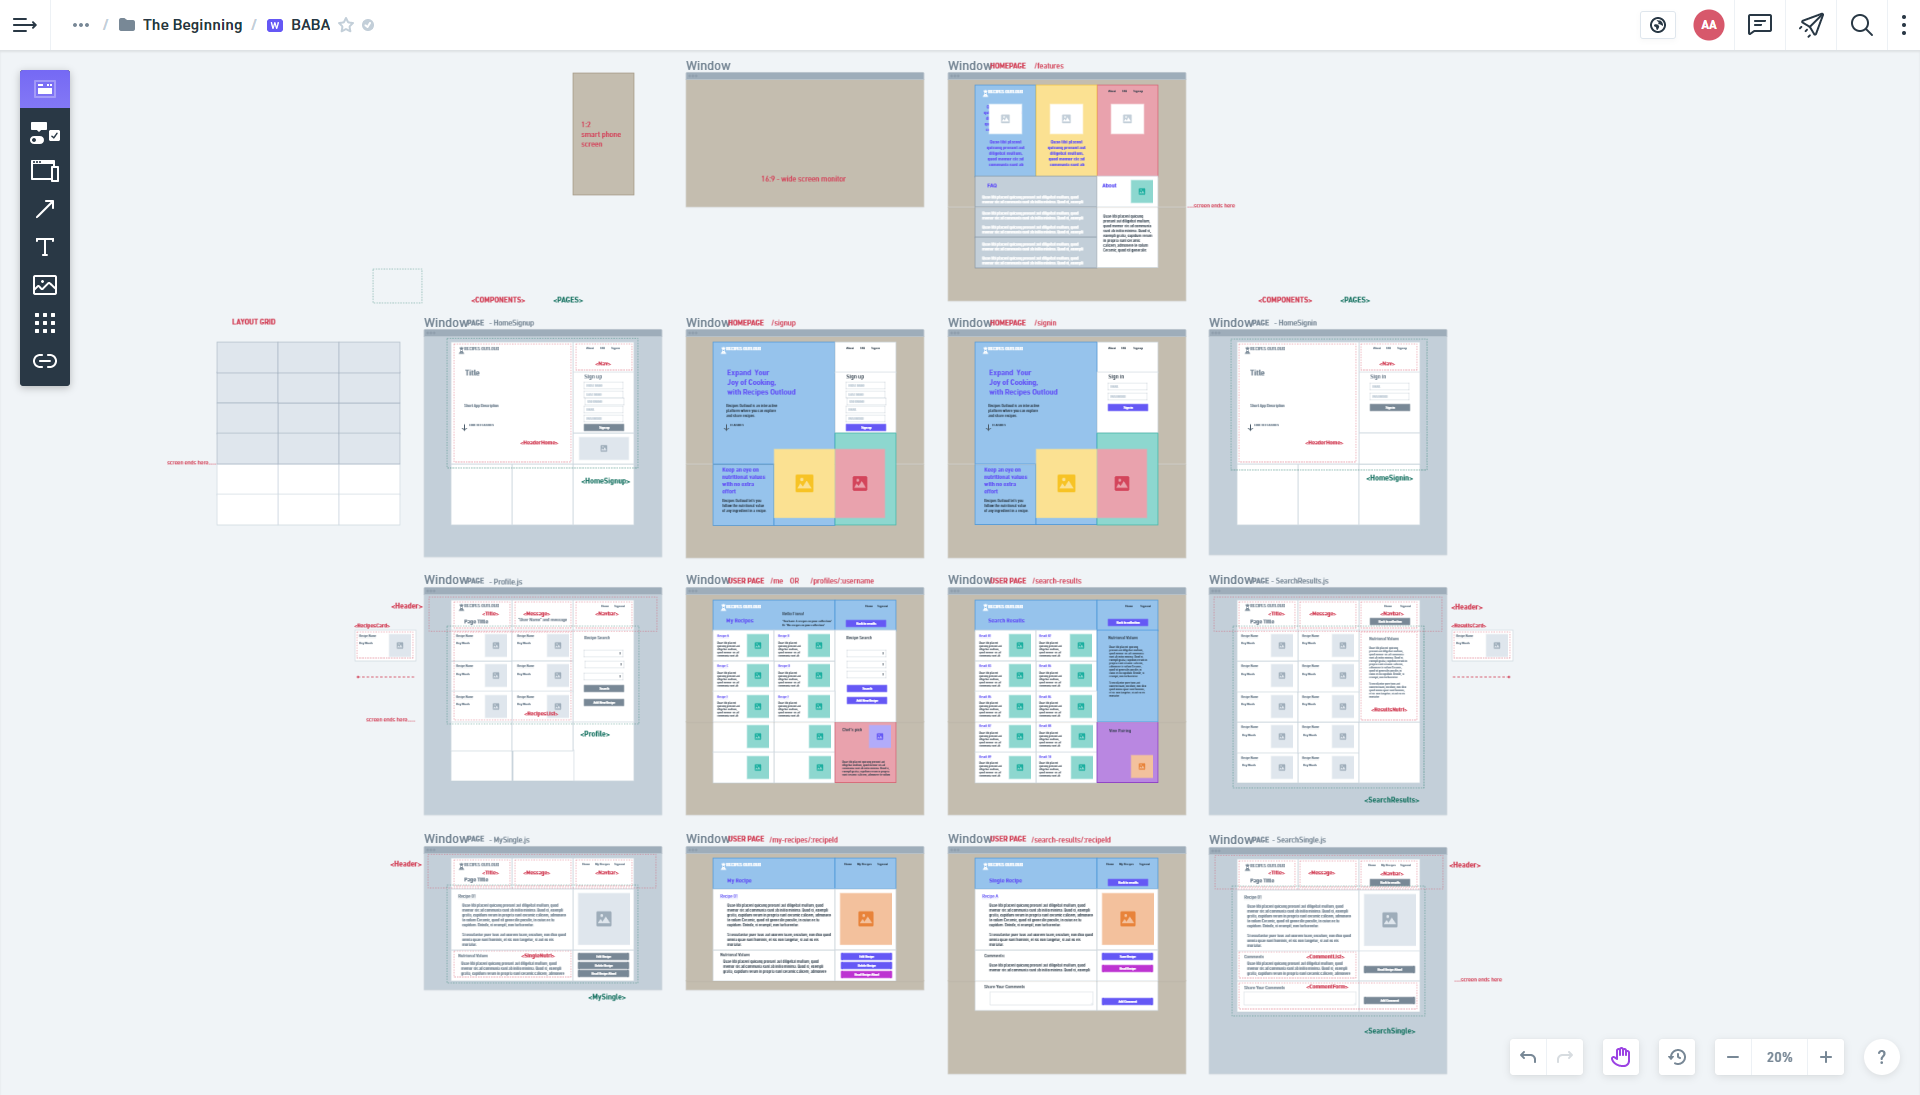
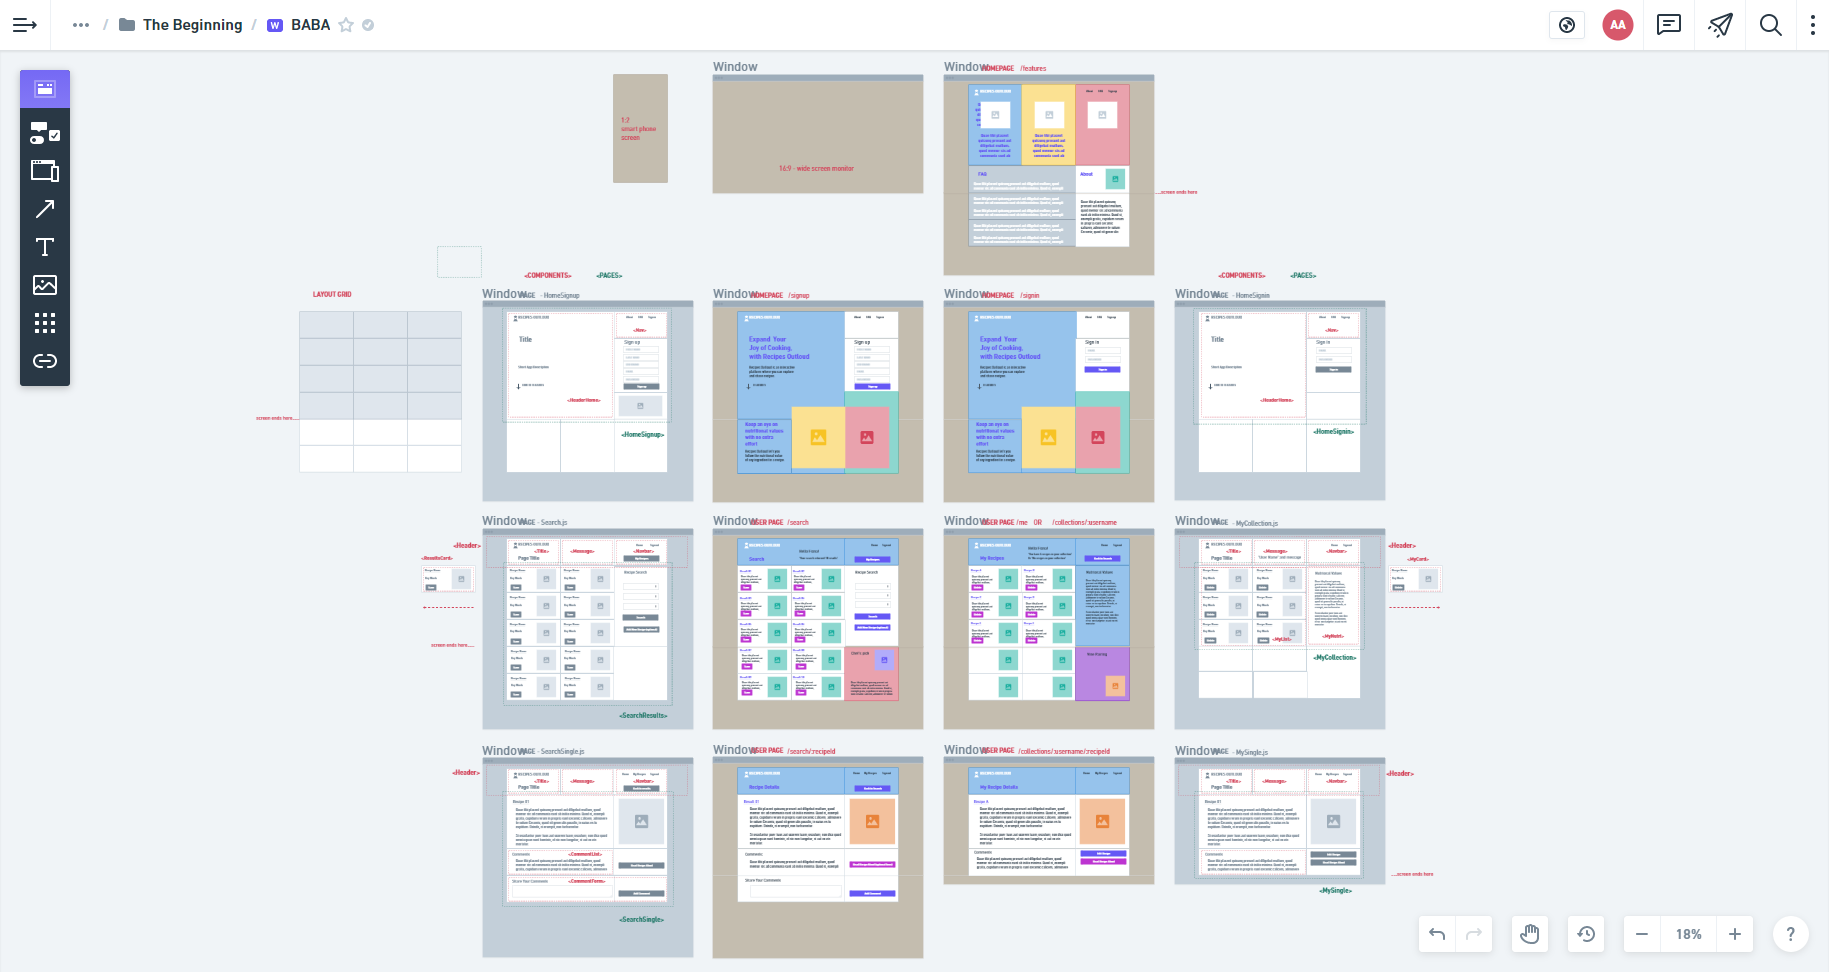
file structure revised

diff --git a/client/src/pages/Search.js b/client/src/pages/Search.js
@@ -1,5 +1,5 @@
 
-// NOTE TO TEAM: ALL API SEARCH FUNCTIONS ARE DEFINED IN PROFILE.JS 
+// NOTE TO TEAM: SEARCH.JS HAS ALL API SEARCH AND SAVE_RECIPE FUNCTIONALITY.
 
 import React, { useState, useEffect } from 'react';
 import { Link } from 'react-router-dom';
@@ -10,7 +10,7 @@ import { QUERY_USER, QUERY_ME } from '../utils/queries';
 import Auth from '../utils/auth';
 
 import Header from '../components/Header';
-import RecipesCard from '../components/RecipesCard';
+import RecipesCard from '../components/MyCard';
 
 import { searchSpoonacular } from '../utils/API';
 import { saveRecipeIds, getSavedRecipeIds } from '../utils/localStorage';
@@ -23,7 +23,7 @@ const Profile = () => {
 
    // create state for holding our search field data
   const [searchInput, setSearchInput] = useState('');
-
+  
   // create state to hold saved recipeId values
   const [savedRecipeIds, setSavedRecipeIds] = useState(getSavedRecipeIds());
   
@@ -32,6 +32,32 @@ const Profile = () => {
   useEffect(() => {
     return () => saveRecipeIds(savedRecipeIds);
   });
+
+// create function to SAVE A RECIPE to our database
+const handleSaveRecipe = async (recipeId) => {
+  // find the recipe in `searchedRecipes` state by the matching id
+  const recipeToSave = searchedRecipes.find((recipe) => recipe.recipeId === recipeId);
+
+  // get token
+  const token = Auth.loggedIn() ? Auth.getToken() : null;
+  if (!token) {
+    return false;
+  }
+
+  try {
+
+    const { data } = await saveRecipe({
+      variables: { input: recipeToSave },
+    });
+
+    // if recipe successfully saves to user's account, save recipe id to state
+    console.log(savedRecipeIds);
+    setSavedRecipeIds([...savedRecipeIds, recipeToSave.recipeId]);
+  } catch (e) {
+    console.error(e);
+  }
+};
+// onClick={() => handleSaveRecipe(recipe.recipeId)}
 
   // create method to SEARCH FOR RECIPES and set state on form submit
   const handleFormSubmit = async (event) => {
@@ -68,7 +94,7 @@ const Profile = () => {
   };
 
 
-// PROFILE PAGE AND ITS COMPONENTS WILL BE DESIGNED (At the moment it is arbitrarily set to give an idea) 
+// PROFILES PAGE AND ITS COMPONENTS WILL BE DESIGNED (At the moment it is arbitrarily set to give an idea) 
   return (
     <>
       <div>

diff --git a/client/src/App.js b/client/src/App.js
@@ -10,9 +10,9 @@ import { BrowserRouter as Router, Switch, Route } from 'react-router-dom';
 
 import HomeSignup from './pages/HomeSignup';
 import HomeSignin from './pages/HomeSignin';
-import Profile from './pages/Profile';
+// import Search from './pages/Search';
 // import MySingle from './pages/MySingle';
-// import SearchResults from './pages/SearchResults';
+// import MyCollection from './pages/MyCollection';
 // import SearchSingle from './pages/SearchSingle';
 
 const httpLink = createHttpLink({
@@ -46,15 +46,15 @@ function App() {
 
             <Route exact path='/signin' component={HomeSignin} />
 
-            {/* <Route exact path='/me' component={Profile} /> */}
+            {/* <Route exact path='/me' component={MyCollection} /> */}
 
-            {/* <Route exact path='/profiles/:username' component={Profile} /> */}
+            {/* <Route exact path='/collections/:username' component={MyCollection} /> */}
 
-            {/* <Route exact path='/my-recipes/:recipeId' component={MySingle} /> */}
+            {/* <Route exact path='/collections/:username/:recipeId' component={MySingle} /> */}
 
-            {/* <Route exact path='/search-results' component={SearchResults} /> */}
+            {/* <Route exact path='/search' component={Search} /> */}
 
-            {/* <Route exact path='/search-results/:recipeId' component={SearchSingle} /> */}
+            {/* <Route exact path='/search/:recipeId' component={SearchSingle} /> */}
 
             {/* <Route exact path='/features' component={HomeFeatures} /> */}
 
